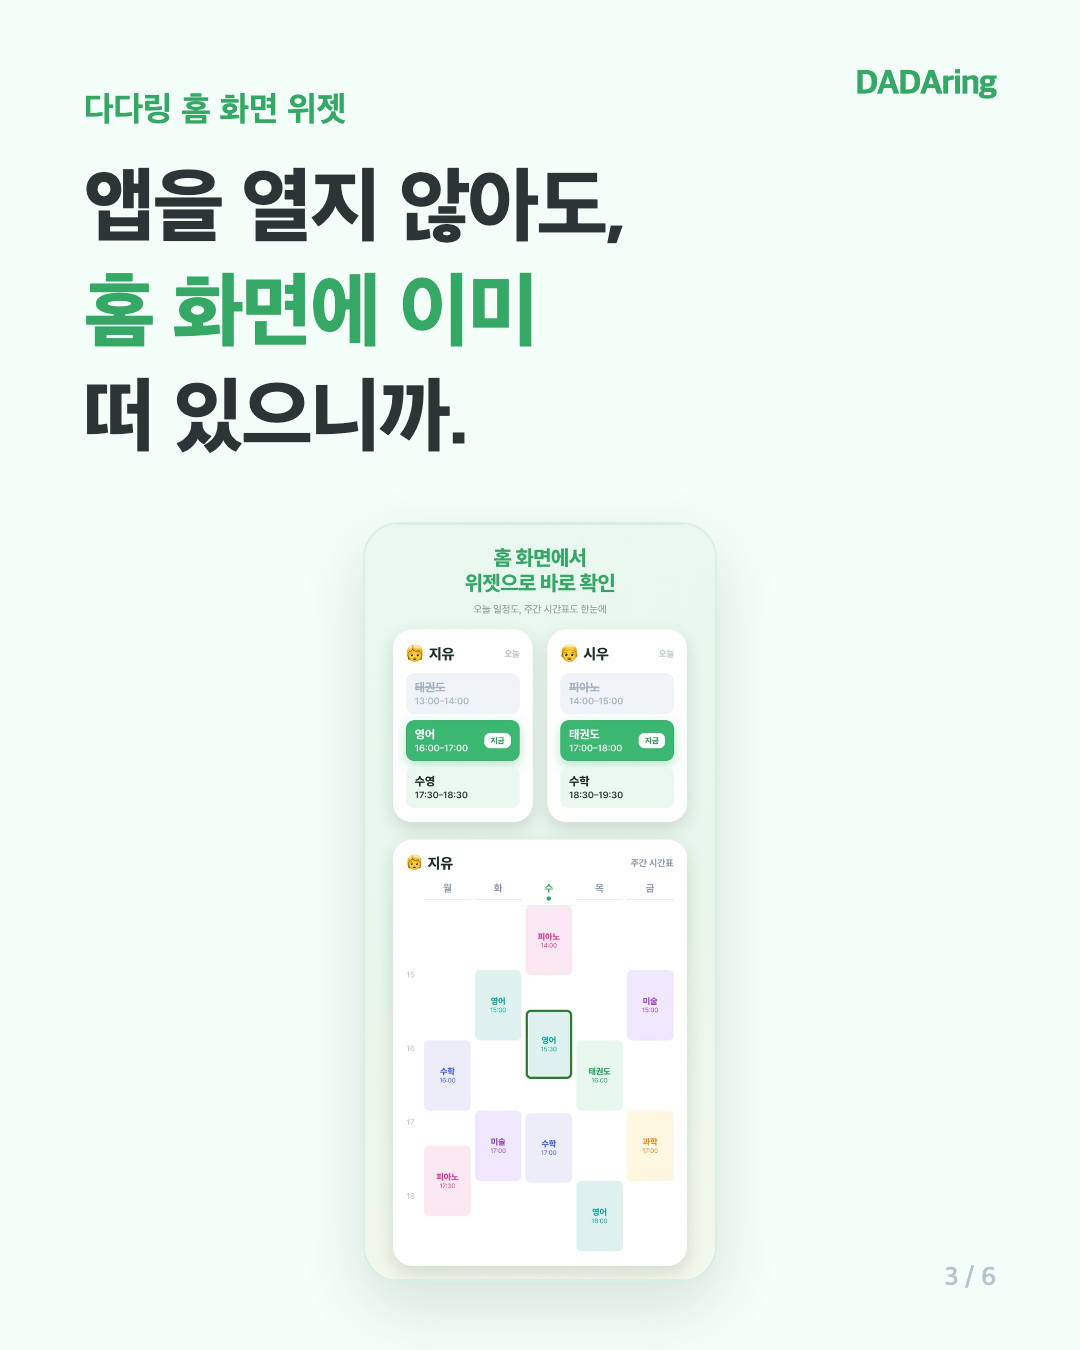
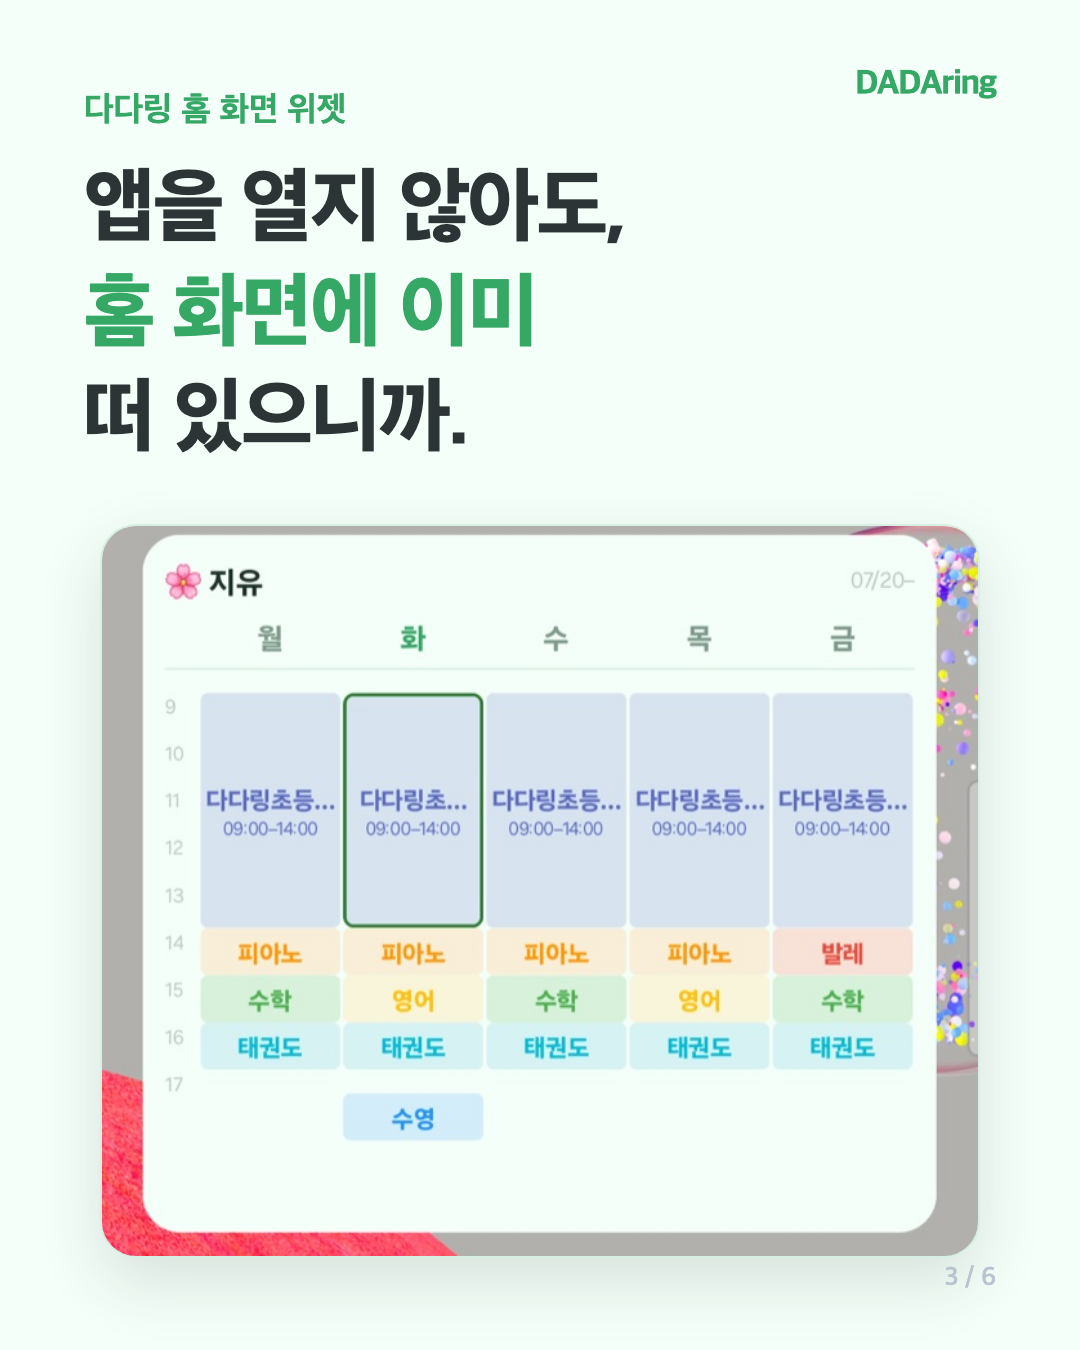
feat: 블로그·카드뉴스 위젯 이미지를 실기기 캡처로 교체
- 오늘 위젯 3테마(잉크·세이지·귀여움) + 주간 위젯 실캡처 (갤럭시 A52s)
- 블로그 글 figure 2컷 구성, og:image/JSON-LD 갱신
- 카드뉴스 3번 재렌더, 미사용 목업(shot-widget-680) 제거

Changed region(s): [[0.0917, 0.3733, 0.9167, 0.9644]]

diff --git a/blog/widget-home-screen.html b/blog/widget-home-screen.html
@@ -10,7 +10,7 @@
   <meta property="og:description" content="홈 화면 위젯으로 아이의 오늘 일정과 주간 학원 시간표를 한눈에. 아이폰·안드로이드 설정법까지.">
   <meta property="og:type" content="article">
   <meta property="og:url" content="https://dadaring.com/blog/widget-home-screen">
-  <meta property="og:image" content="https://dadaring.com/images/shot-widget-680.jpg">
+  <meta property="og:image" content="https://dadaring.com/images/widget-today-real-680.jpg">
   <link rel="stylesheet" href="/css/style.css">
   <link rel="stylesheet" href="/css/blog.css">
   <link rel="preconnect" href="https://cdn.jsdelivr.net">
@@ -21,7 +21,7 @@
     "@type": "BlogPosting",
     "headline": "아이 학원 일정, 앱 안 열고 홈 화면에서 바로 보는 법 — 다다링 위젯 활용법",
     "description": "홈 화면 위젯으로 아이의 오늘 일정과 주간 학원 시간표를 한눈에 확인하는 방법과 아이폰·안드로이드 설정법.",
-    "image": "https://dadaring.com/images/shot-widget-680.jpg",
+    "image": "https://dadaring.com/images/widget-today-real-680.jpg",
     "datePublished": "2026-07-21",
     "dateModified": "2026-07-21",
     "author": { "@type": "Organization", "name": "DADAring" },
@@ -59,10 +59,15 @@
     <li><strong>주간 위젯</strong> — 일주일 학원 시간표를 색상 블록으로 한눈에. "이번 주 목요일에 수영 있었나?"가 바로 보입니다.</li>
   </ul>
   <figure>
-    <img src="/images/shot-widget-680.jpg" alt="다다링 홈 화면 위젯 — 오늘 일정과 주간 학원 시간표를 한눈에" width="680" height="1472" loading="lazy" decoding="async">
-    <figcaption>오늘 위젯과 주간 위젯. 자녀별·테마별로 골라 담을 수 있어요.</figcaption>
+    <img src="/images/widget-today-real-680.jpg" alt="다다링 오늘 위젯 실제 화면 — 학교와 방과후 일정이 시간순으로, 지금 하는 활동에 배지 표시" width="680" height="755" loading="lazy" decoding="async">
+    <figcaption>오늘 위젯 실제 화면. 잉크·세이지·귀여움 세 가지 테마 중 골라 담아요.</figcaption>
   </figure>
   <p>아이가 여럿이라면 <strong>자녀별로 위젯을 따로</strong> 놓을 수 있습니다. 첫째 위젯, 둘째 위젯을 나란히 두면 두 아이의 오늘이 한 화면에 정리되죠. 밝은 테마·어두운 테마 등 홈 화면 분위기에 맞는 디자인도 고를 수 있어요.</p>
+
+  <figure>
+    <img src="/images/widget-weekly-real-680.jpg" alt="다다링 주간 위젯 실제 화면 — 월요일부터 금요일까지 학교·학원 시간표가 색상 블록으로" width="680" height="566" loading="lazy" decoding="async">
+    <figcaption>주간 위젯 실제 화면. 학교부터 방과후 학원까지 일주일이 한눈에.</figcaption>
+  </figure>
 
   <h2>설정 방법 (1분이면 끝)</h2>
   <h3>아이폰 (iOS)</h3>

diff --git a/marketing/2026-07-21-widget/instagram/cards.html b/marketing/2026-07-21-widget/instagram/cards.html
@@ -71,7 +71,7 @@
   <div class="brand">DADAring</div>
   <div class="kicker">다다링 홈 화면 위젯</div>
   <h1>앱을 열지 않아도,<br><span class="hl">홈 화면에 이미</span><br>떠 있으니까.</h1>
-  <div class="shot-wrap"><img src="../../../images/shot-widget-680.jpg" alt=""></div>
+  <div class="shot-wrap"><img src="../../../images/widget-weekly-real-680.jpg" alt="" style="height:auto;width:880px;"></div>
   <div class="pageno">3 / 6</div>
 </section>
 

diff --git a/marketing/2026-07-21-widget/naver.md b/marketing/2026-07-21-widget/naver.md
@@ -2,7 +2,7 @@
 
 > 붙여넣기용. 네이버는 자체 블로그 글을 우대하므로 홈페이지 글과 같은 주제를
 > 네이버 검색 문법(키워드 자연 반복, 짧은 문단, 소제목)에 맞게 재작성한 버전.
-> 이미지: ①번 자리에 앱 위젯 스크린샷(images/shot-widget-680.jpg), ②번 자리에
+> 이미지: ①번 자리에 앱 위젯 스크린샷(images/widget-today-real-680.jpg (오늘 위젯 3테마), images/widget-weekly-real-680.jpg (주간 위젯)), ②번 자리에
 > 인스타 카드뉴스 1~2번 이미지를 재사용하면 됩니다.
 > 태그 추천: #아이일정관리 #학원시간표 #초등학부모 #워킹맘 #학원스케줄 #육아앱 #홈화면위젯 #다다링
 